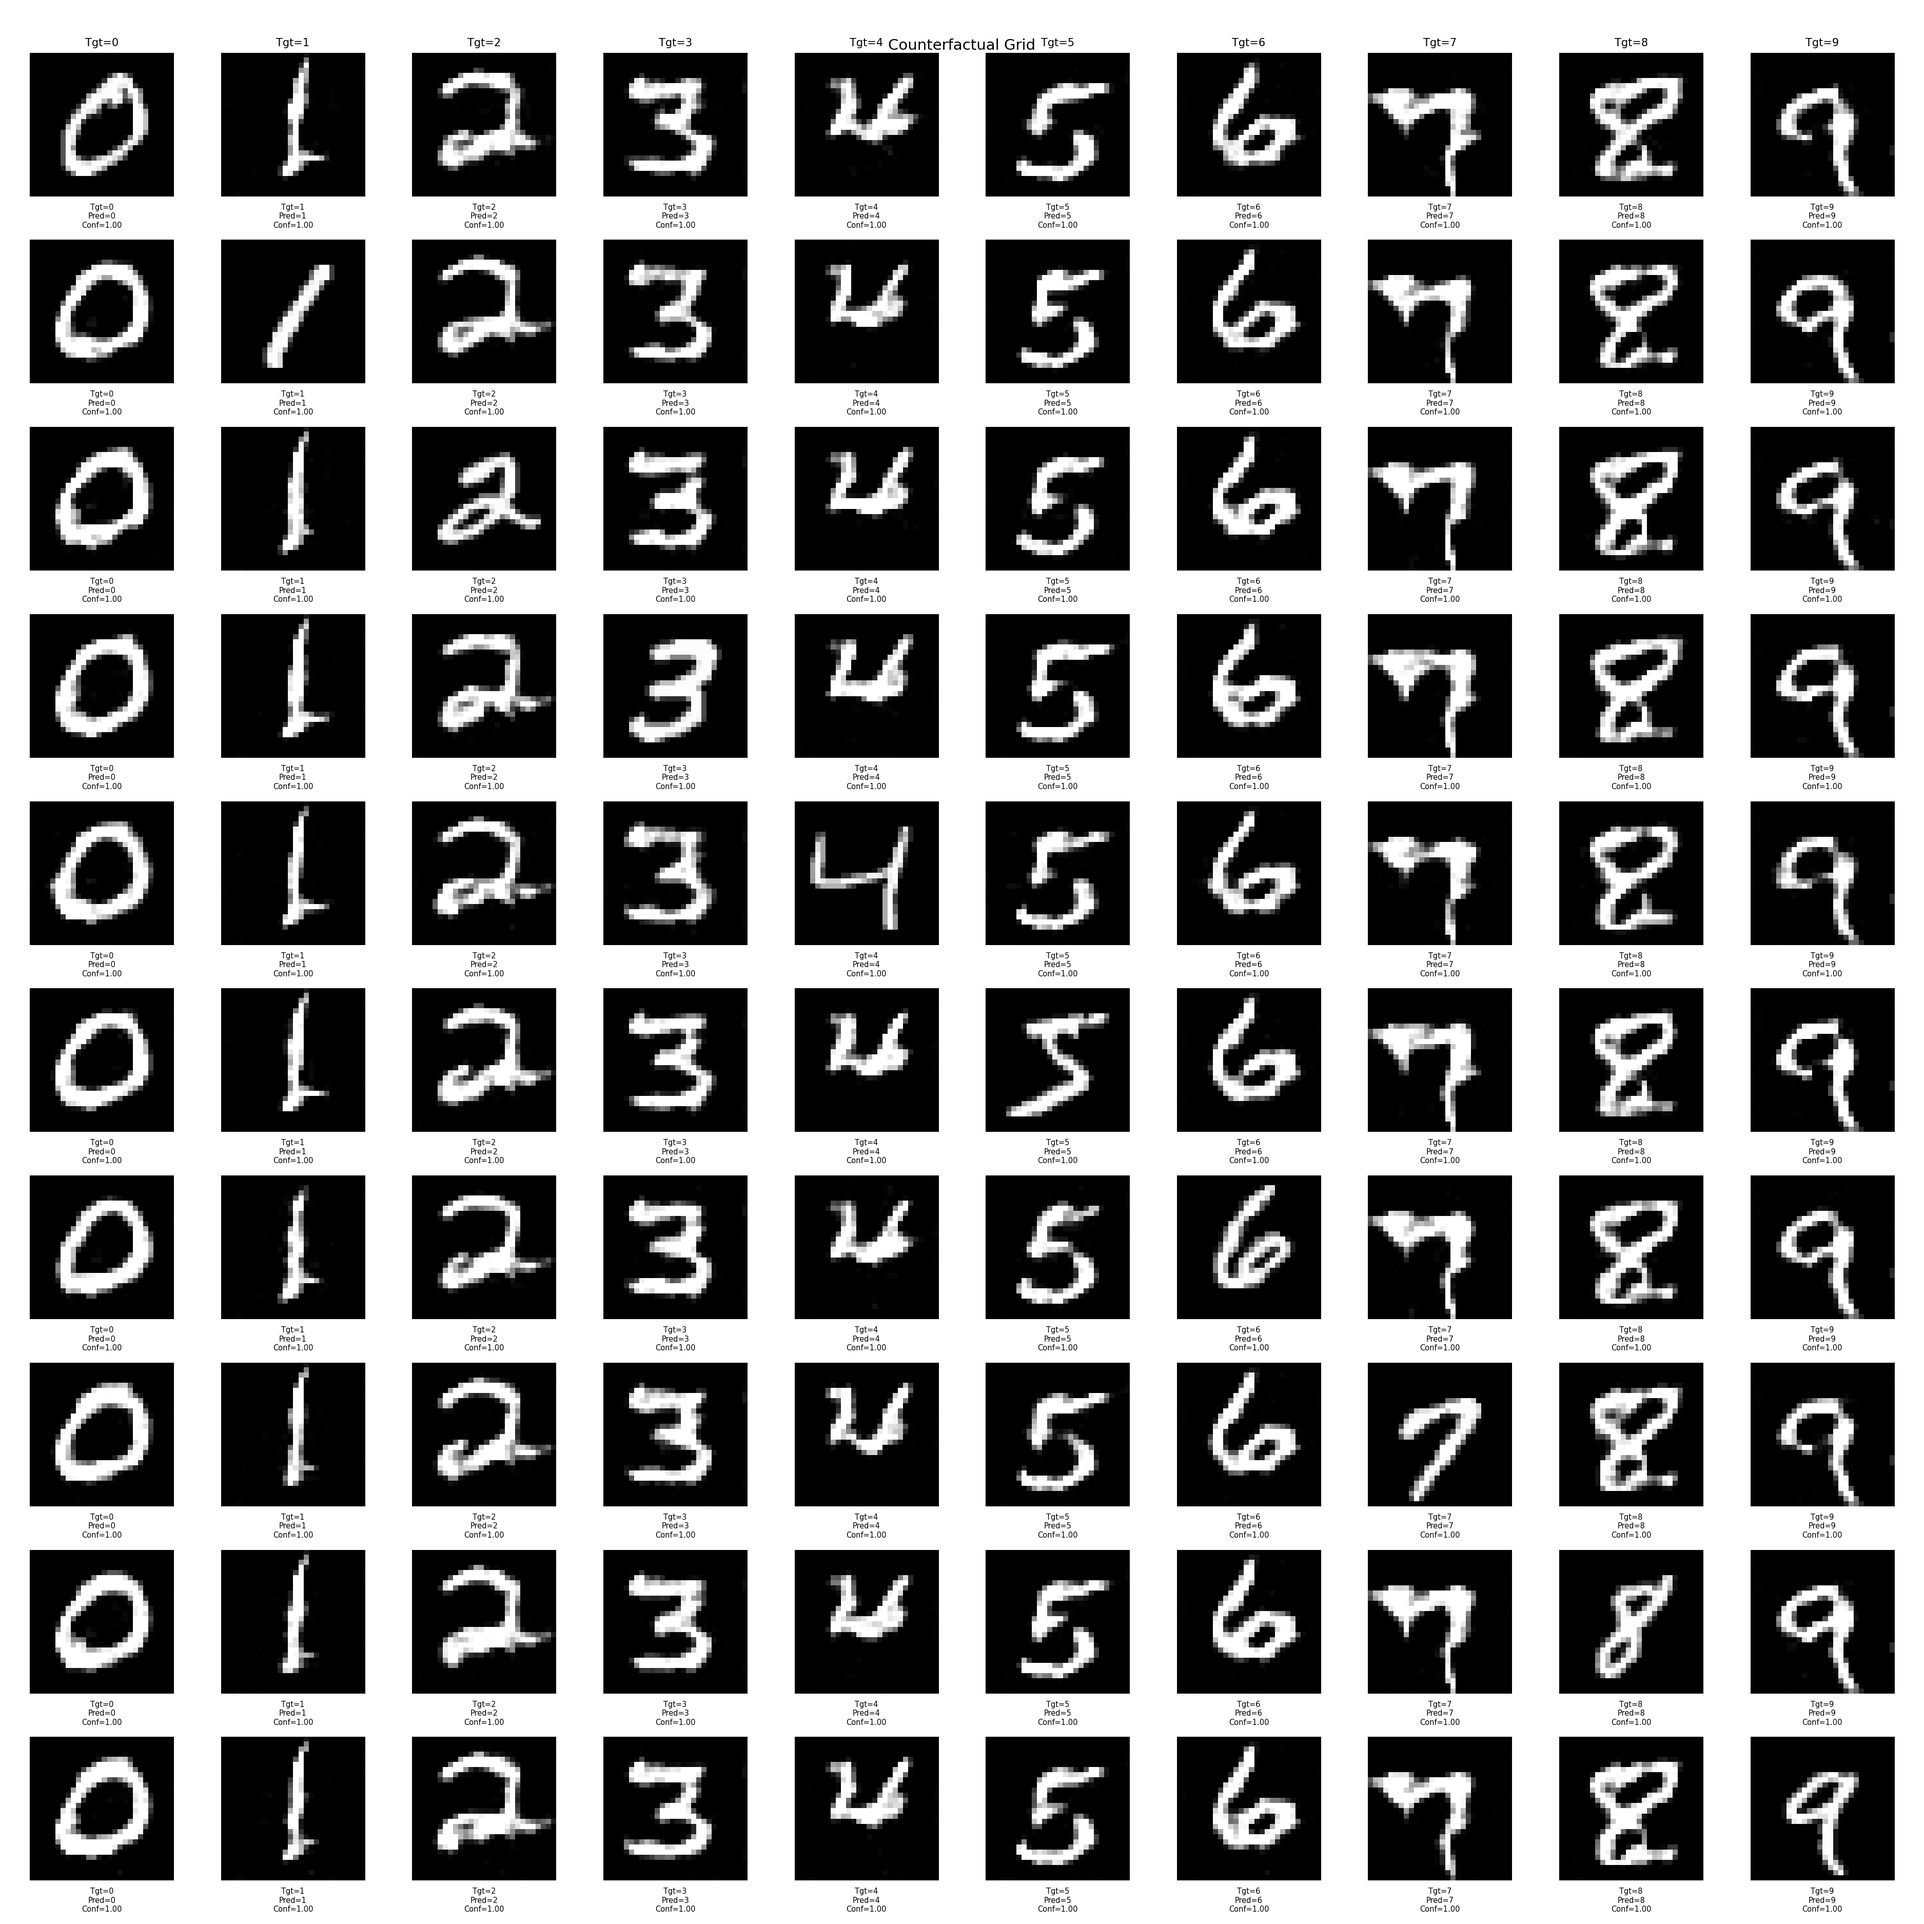
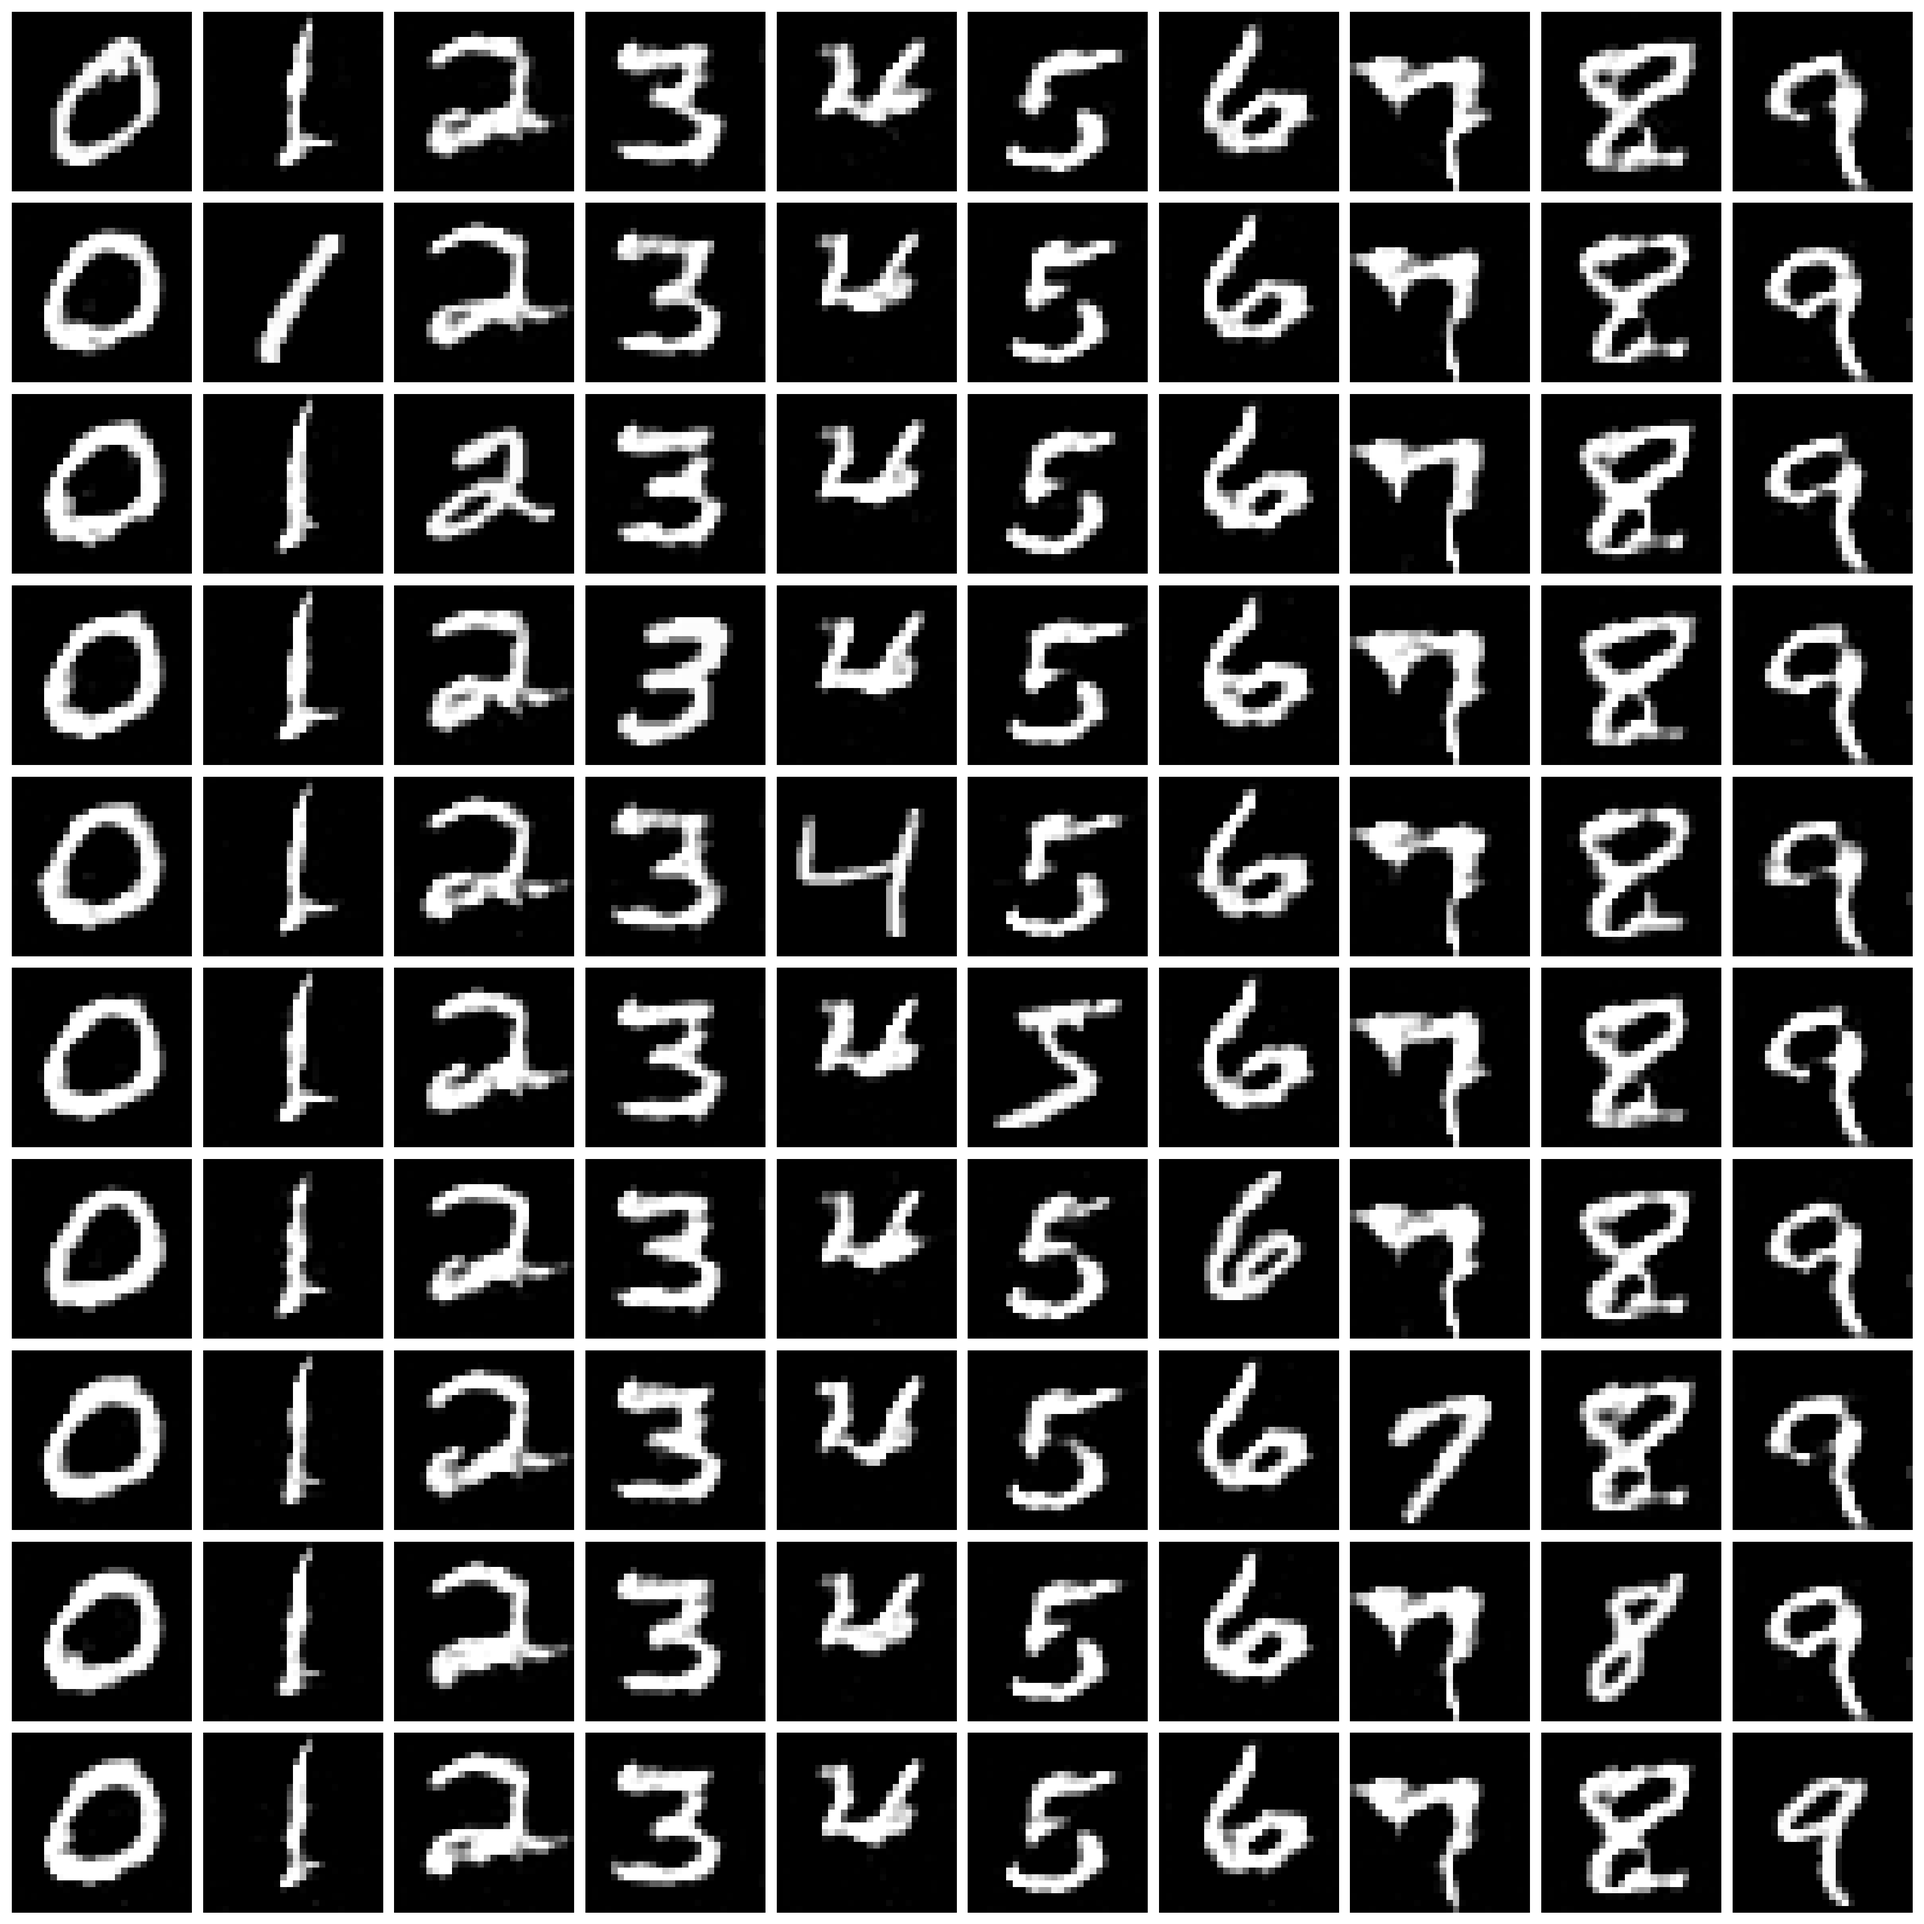
mnist eval extended

diff --git a/conditional_counteRGAN/mnist/eval_utils.py b/conditional_counteRGAN/mnist/eval_utils.py
@@ -7,6 +7,9 @@ from sklearn.metrics import accuracy_score, confusion_matrix
 import seaborn as sns
 import math
 from typing import Tuple, Dict
+import pandas as pd
+from tqdm import tqdm
+
 
 
 def evaluate_classifier(classifier, dataloader, device, save_dir=None, prefix="classifier"):
@@ -49,7 +52,7 @@ def evaluate_counterfactuals(generator, classifier, x, y_true, y_target, device)
     num_classes = classifier(torch.zeros(1,1,28,28).to(device)).shape[1]
 
     with torch.no_grad():
-        residual = generator(x.to(device), y_target.to(device))
+        residual = generator(x.to(device), y_target.to(device), torch.ones_like(x, device=device))[1]
         # clamp to training range
         x_cf = torch.clamp(x.to(device) + residual, -1.0, 1.0)
         logits = classifier(x_cf)
@@ -71,6 +74,41 @@ def evaluate_counterfactuals(generator, classifier, x, y_true, y_target, device)
         "prediction_gain": pred_gain,
         "actionability": actionability,
     }, (x_vis, x_cf_vis)
+
+def evaluate_generator_per_target(generator, classifier, test_loader, config):
+    device = config.device
+    num_classes = config.num_classes
+    generator.eval()
+    classifier.eval()
+
+    results = {cls: {"class_flip_rate": [], "prediction_gain": [], "actionability": []}
+               for cls in range(num_classes)}
+
+    for x, y in tqdm(test_loader, desc="Evaluating per target class"):
+        x, y = x.to(device), y.to(device)
+
+        # Evaluate for each possible target class
+        for target_class in range(num_classes):
+            y_target = torch.full_like(y, target_class)
+            metrics, _ = evaluate_counterfactuals(generator, classifier, x, y, y_target, device)
+            for key in results[target_class]:
+                results[target_class][key].append(metrics[key])
+
+    # Average over all batches per target class
+    avg_results = {
+        cls: {metric: float(torch.tensor(vals).mean())
+              for metric, vals in metrics.items()}
+        for cls, metrics in results.items()
+    }
+
+    df = pd.DataFrame.from_dict(avg_results, orient="index")
+    os.makedirs(config.save_dir, exist_ok=True)
+    csv_path = os.path.join(config.save_dir, "countergan_metrics_per_class.csv")
+    df.to_csv(csv_path)
+
+    print(f"Saved per-class CounterGAN metrics to {csv_path}")
+    print(df)
+
 
 def visualize_counterfactual_grid(generator, classifier, dataset, device,
                                   class_map=None, save_path="cf_grid.png",
@@ -123,8 +161,8 @@ def visualize_counterfactual_grid(generator, classifier, dataset, device,
         text = f"Tgt={tgt}"
         if pred is not None:
             text += f"\nPred={pred}\nConf={conf:.2f}"
-        ax.text(0.5, -0.05, text, color="black", fontsize=7,
-                ha="center", va="top", transform=ax.transAxes)
+        # ax.text(0.5, -0.05, text, color="black", fontsize=7,
+        #         ha="center", va="top", transform=ax.transAxes)
 
     for r, x_src in enumerate(samples):
         x_src = x_src.to(device)
@@ -156,12 +194,12 @@ def visualize_counterfactual_grid(generator, classifier, dataset, device,
                 show_image(ax, img_disp, tgt=tgt_label,
                            pred=pred_label, conf=pred_conf, border_color=color)
 
-            if r == 0:
-                ax.set_title(f"Tgt={class_map[c]}", fontsize=10)
-            if c == 0:
-                ax.set_ylabel(f"Src={class_map[r]}", fontsize=10, rotation=90)
+            # if r == 0:
+            #     ax.set_title(f"Tgt={class_map[c]}", fontsize=10)
+            # if c == 0:
+            #     ax.set_ylabel(f"Src={class_map[r]}", fontsize=10, rotation=90)
 
-    plt.suptitle("Counterfactual Grid", fontsize=14)
+    #plt.suptitle("Counterfactual Grid", fontsize=14)
     plt.tight_layout()
     plt.savefig(save_path, dpi=150)
     plt.close()
@@ -272,6 +310,17 @@ def compute_masked_metrics(raw_residual: torch.Tensor, masked_residual: torch.Te
         logits_cf = classifier(x_cf)
         preds_cf = logits_cf.argmax(dim=1)
 
+        # calc pred_gain
+        logits_orig = classifier(x)
+        probs_orig = F.softmax(logits_orig, dim=1)
+        probs_cf = F.softmax(logits_cf, dim=1)
+
+        bs = x.size(0)
+        p_orig = probs_orig[torch.arange(bs), y_true]
+        p_cf = probs_cf[torch.arange(bs), y_target]
+        pred_gain = (p_cf - p_orig).mean().item()
+
+        # class flip rates
         flips = (preds_cf == y_target.to(device)).float()
         FR_mac = float(flips.mean().item())
         FR_max = float(flips.max().item())
@@ -294,6 +343,7 @@ def compute_masked_metrics(raw_residual: torch.Tensor, masked_residual: torch.Te
         "Class_flip_rate_mean": FR_mac,
         "Class_flip_rate_max": FR_max,
         "Residual_L1_norm_in_allowed_patches": Allowed_L1,
+        "Prediction_gain": pred_gain,
         "Actionability (overall L1 norm)": actionability,
         "mask_penalty_pre": mask_penalty_pre
     }
@@ -524,11 +574,12 @@ def save_user_modification_example(
 
 
 
-def evaluate_pipeline(generator, classifier, x, y, full_dataset, config):
+def evaluate_pipeline(generator, classifier, full_dataset, test_loader, config):
     """
     Orchestrator: runs the entire evaluation and visualization pipeline.
     """
     device = config.device
+    x, y = next(iter(test_loader)) 
     x, y = x.to(device), y.to(device)
     bs = x.size(0)
 
@@ -558,38 +609,44 @@ def evaluate_pipeline(generator, classifier, x, y, full_dataset, config):
     )
 
     # 5. Compute metrics
-    metrics = compute_masked_metrics(raw_residual, masked_residual, x, x_cf,
-                                     batch_mask, classifier, y, y_target, device)
+    # metrics = compute_masked_metrics(raw_residual, masked_residual, x, x_cf,
+    #                                  batch_mask, classifier, y, y_target, device)
+    metrics_without_mask = evaluate_counterfactuals(generator, classifier, x, y, y_target, device)[0]
+    evaluate_generator_per_target(generator, classifier, test_loader, config)
+
 
     # 6. Save visualizations
-    save_dir = os.path.join(config.save_dir, "eval_visuals")
-    os.makedirs(save_dir, exist_ok=True)
+    # save_dir = os.path.join(config.save_dir, "eval_visuals")
+    # os.makedirs(save_dir, exist_ok=True)
 
-    x_vis = ((x + 1.0) / 2.0).detach().cpu()
-    x_cf_vis = ((x_cf + 1.0) / 2.0).detach().cpu()
-    mask_vis = batch_mask.detach().cpu()
+    # x_vis = ((x + 1.0) / 2.0).detach().cpu()
+    # x_cf_vis = ((x_cf + 1.0) / 2.0).detach().cpu()
+    # mask_vis = batch_mask.detach().cpu()
 
-    make_and_save_heatmaps(
-        x_vis, x_cf_vis, mask_vis, metrics, classifier=classifier, device=device,
-        save_dir=save_dir, y_true=y, y_target=y_target, max_samples=min(16, bs)
-    )
+    # make_and_save_heatmaps(
+    #     x_vis, x_cf_vis, mask_vis, metrics, classifier=classifier, device=device,
+    #     save_dir=save_dir, y_true=y, y_target=y_target, max_samples=min(16, bs)
+    # )
 
     visualize_counterfactual_grid(
         generator, classifier, full_dataset, device,
         save_path=os.path.join(config.save_dir, "cf_grid.png")
     )
-    visualize_patch_grid(
-        x_vis[0], config.patch_size,
-        save_path=os.path.join(save_dir, "patch_grid.png")
-    )
+    
+    # visualize_patch_grid(
+    #     x_vis[0], config.patch_size,
+    #     save_path=os.path.join(save_dir, "patch_grid.png")
+    # )
 
-    # 7. Show simulated allowed-patch modification
-    save_user_modification_example(
-        x_vis, simulated_patches, generator, classifier,
-        y_true=y, y_target=y_target, device=device,
-        save_dir=save_dir, patch_size=config.patch_size
-    )
+    # # 7. Show simulated allowed-patch modification
+    # save_user_modification_example(
+    #     x_vis, simulated_patches, generator, classifier,
+    #     y_true=y, y_target=y_target, device=device,
+    #     save_dir=save_dir, patch_size=config.patch_size
+    # )
 
+    pd.DataFrame(metrics_without_mask, index=[0]).to_csv(os.path.join(config.save_dir, "countergan_metrics.csv"))
+    print(f"Countergan metrics: {metrics_without_mask}"
+            f"\nSaved to: {os.path.join(config.save_dir, 'countergan_metrics.csv')}")
 
-    print("Evaluation metrics:", metrics)
     print(f"Saved all visuals and patch example in: {save_dir}")

diff --git a/conditional_counteRGAN/mnist/main.py b/conditional_counteRGAN/mnist/main.py
@@ -47,7 +47,6 @@ for p in generator.parameters():
     p.requires_grad = False
 
 print("Evaluating counterfactuals...")
-x, y = next(iter(test_loader)) 
-evaluate_pipeline(generator, classifier, x, y, full_dataset, config)
+evaluate_pipeline(generator, classifier, full_dataset, test_loader, config)
 
 
